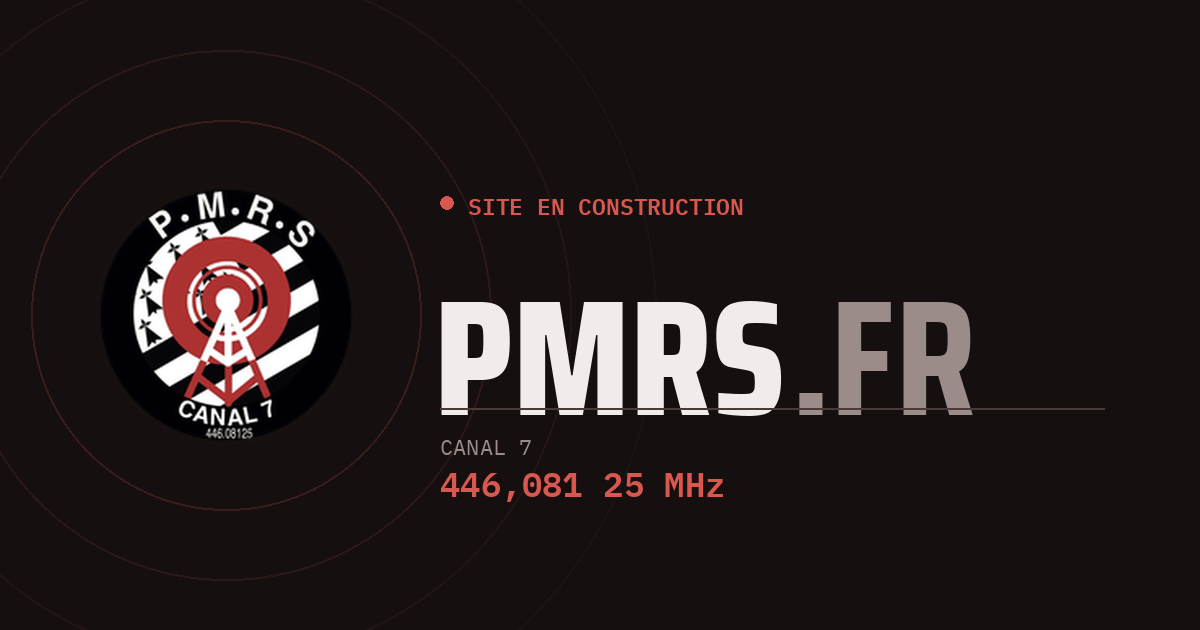
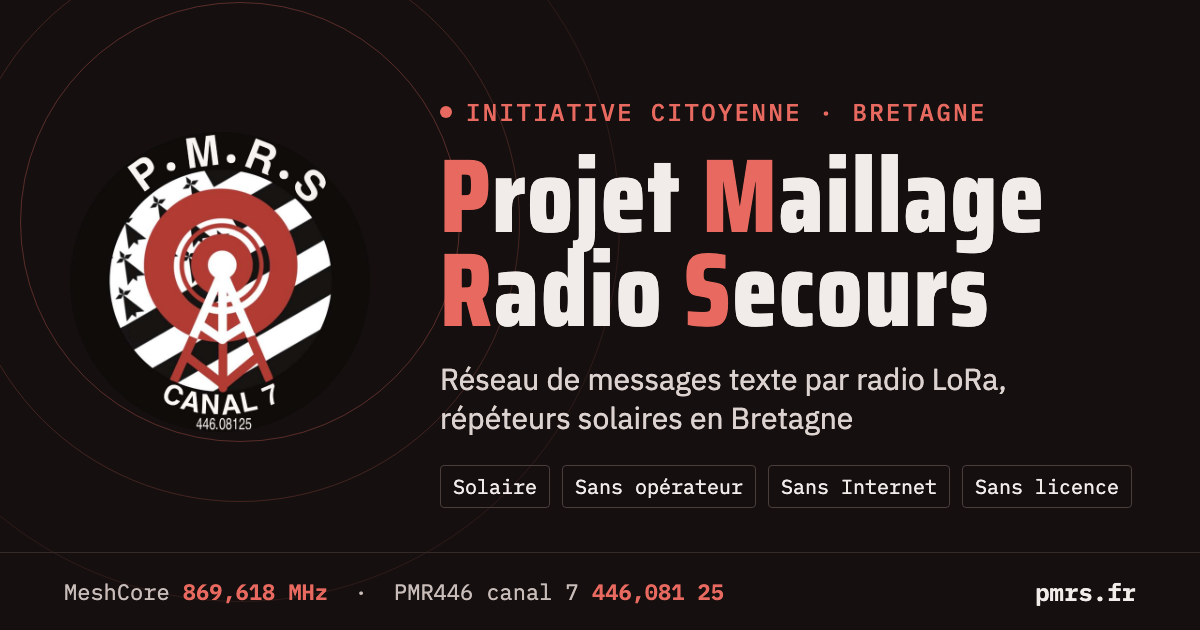
Updates OGs

diff --git a/procedure.html b/procedure.html
@@ -4,7 +4,7 @@
   <meta charset="utf-8">
   <meta name="viewport" content="width=device-width, initial-scale=1, viewport-fit=cover">
   <title>Procédure de crise — PMRS</title>
-  <meta name="description" content="Procédure d'usage en crise du réseau MeshCore PMRS d'Ille-et-Vilaine : principes d'emploi, plan de canaux, parc de terminaux, préparation à froid, conduite en crise et gabarits de messages.">
+  <meta name="description" content="Procédure d'usage en crise du réseau MeshCore PMRS en Bretagne : principes d'emploi, plan de canaux, parc de terminaux, préparation à froid, conduite en crise et gabarits de messages.">
   <link rel="canonical" href="https://pmrs.fr/procedure.html">
   <meta name="theme-color" content="#EFEBEA" media="(prefers-color-scheme: light)">
   <meta name="theme-color" content="#15100F" media="(prefers-color-scheme: dark)">
@@ -15,9 +15,19 @@
   <meta property="og:type" content="article">
   <meta property="og:site_name" content="PMRS">
   <meta property="og:locale" content="fr_FR">
+  <meta property="og:url" content="https://pmrs.fr/procedure.html">
   <meta property="og:title" content="Procédure d'usage en crise — PMRS">
-  <meta property="og:description" content="Comment utiliser le réseau MeshCore PMRS quand les réseaux opérateurs sont indisponibles.">
-  <meta property="og:image" content="https://pmrs.fr/og-image.png">
+  <meta property="og:description" content="Utilisation du réseau MeshCore PMRS en Bretagne lorsque les réseaux opérateurs sont indisponibles : plan de canaux, préparation des terminaux, conduite en crise, gabarits de messages.">
+  <meta property="og:image" content="https://pmrs.fr/og-procedure.png">
+  <meta property="og:image:type" content="image/png">
+  <meta property="og:image:width" content="1200">
+  <meta property="og:image:height" content="630">
+  <meta property="og:image:alt" content="Procédure d'usage en crise PMRS : les cinq états Veille, Pré-alerte, Activation, Conduite, Levée">
+  <meta name="twitter:card" content="summary_large_image">
+  <meta name="twitter:title" content="Procédure d'usage en crise — PMRS">
+  <meta name="twitter:description" content="Utilisation du réseau MeshCore PMRS en Bretagne lorsque les réseaux opérateurs sont indisponibles : plan de canaux, préparation des terminaux, conduite en crise, gabarits de messages.">
+  <meta name="twitter:image" content="https://pmrs.fr/og-procedure.png">
+  <meta name="twitter:image:alt" content="Procédure d'usage en crise PMRS : les cinq états Veille, Pré-alerte, Activation, Conduite, Levée">
 
   <script>try{var t=localStorage.getItem('pmrs-theme');if(t==='light'||t==='dark'){document.documentElement.setAttribute('data-theme',t)}}catch(e){}</script>
   <link rel="preconnect" href="https://fonts.googleapis.com">
@@ -72,12 +82,12 @@
     <header class="doc-head">
       <p class="eyebrow"><span class="dot"></span>Version de travail</p>
       <h1>Procédure d'usage en crise</h1>
-      <p class="lede">Comment utiliser le réseau MeshCore d'Ille-et-Vilaine lorsque les réseaux opérateurs sont indisponibles : plan de canaux, équipement des porteurs et discipline de trafic.</p>
+      <p class="lede">Comment utiliser le réseau MeshCore en Bretagne lorsque les réseaux opérateurs sont indisponibles : plan de canaux, équipement des porteurs et discipline de trafic.</p>
       <div class="meta">
         <span>LoRa 869,618 MHz</span>
-        <span>Ille-et-Vilaine (35)</span>
-        <span>18 octobre 2026</span>
-        <span>Y. Ferez, responsable de déploiement 35</span>
+        <span>Bretagne : 22, 29, 35, 56, 44</span>
+        <span>20 octobre 2026</span>
+        <span>Collectif PMRS</span>
       </div>
       <div class="btns">
         <button class="btn ghost" type="button" onclick="window.print()">Imprimer</button>
@@ -154,6 +164,7 @@
     <section class="chap" id="canaux">
       <h2><span class="no">03</span>Plan de canaux préétabli</h2>
       <p>Les canaux se créent <strong>à froid, jamais pendant la crise</strong> : un canal privé suppose la distribution préalable d'un secret de 32 octets à chaque porteur.</p>
+      <p>La conduite opérationnelle se fait <strong>par département</strong> : chaque canal opérations reste limité à sa région départementale, ce qui évite de saturer la bande sur toute la Bretagne. Les responsables départementaux se coordonnent sur un canal régional dédié.</p>
       <div class="grid g3">
         <div class="panel"><p class="panel-label">Public</p><p class="muted small">Présent sur tous les terminaux.</p></div>
         <div class="panel"><p class="panel-label">Hashtag</p><p class="muted small">Clé dérivée du nom : quiconque connaît le nom y entre. <strong>Pas confidentiel.</strong></p></div>
@@ -164,11 +175,12 @@
           <thead><tr><th>Canal</th><th>Type</th><th>Région</th><th>Usage</th><th>Porteurs</th></tr></thead>
           <tbody>
             <tr><th class="mono">Public</th><td>public</td><td class="mono">fr</td><td>Veille générale, prise de contact</td><td>Tous</td></tr>
-            <tr><th class="mono">#ille-et-vilaine</th><td>hashtag</td><td class="mono">fr-35</td><td>Situation départementale, information non sensible</td><td>Porteurs du 35</td></tr>
-            <tr><th class="mono">#rennes-metropole</th><td>hashtag</td><td class="mono">fr-35</td><td>Situation sur la métropole</td><td>Porteurs du secteur</td></tr>
-            <tr><th class="mono">pmrs-35-operations</th><td>privé</td><td class="mono">fr-35</td><td>Conduite opérationnelle</td><td>Porteurs engagés</td></tr>
-            <tr><th class="mono">pmrs-35-technique</th><td>privé</td><td class="mono">fr-35</td><td>État des répéteurs, pannes, interventions</td><td>Équipe technique</td></tr>
-            <tr><th class="mono">#test</th><td>hashtag</td><td class="mono">fr-35</td><td>Essais et exercices, hors activation</td><td>Tous</td></tr>
+            <tr><th class="mono">#bretagne</th><td>hashtag</td><td class="mono">fr-bre</td><td>Situation régionale, information non sensible</td><td>Tous les porteurs bretons</td></tr>
+            <tr><th class="mono">#finistere<br>#cotes-darmor<br>#morbihan<br>#ille-et-vilaine<br>#loire-atlantique</th><td>hashtag</td><td class="mono">fr-29<br>fr-22<br>fr-56<br>fr-35<br>fr-44</td><td>Situation départementale, information non sensible</td><td>Porteurs du département</td></tr>
+            <tr><th class="mono">pmrs-29-operations<br><span class="muted">… un par département</span></th><td>privé</td><td class="mono">fr-29…</td><td>Conduite opérationnelle dans le département</td><td>Porteurs engagés du département</td></tr>
+            <tr><th class="mono">pmrs-bzh-coordination</th><td>privé</td><td class="mono">fr-bre</td><td>Coordination quand un événement touche plusieurs départements</td><td>Responsables départementaux</td></tr>
+            <tr><th class="mono">pmrs-bzh-technique</th><td>privé</td><td class="mono">fr-bre</td><td>État des répéteurs, pannes, interventions</td><td>Équipe technique</td></tr>
+            <tr><th class="mono">#test</th><td>hashtag</td><td class="mono">fr-bre</td><td>Essais et exercices, hors activation</td><td>Tous</td></tr>
           </tbody>
         </table>
       </div>
@@ -181,12 +193,12 @@
       <p>La communauté française a fixé des règles qu'il faut suivre pour rester interopérable.</p>
       <dl class="kv">
         <div><dt>Hashtags</dt><dd>Minuscules non accentuées, chiffres et tirets uniquement. Pas d'espace, pas de caractère spécial.</dd></div>
-        <div><dt>Terminaux</dt><dd>Département, 4 à 6 lettres de commune, puis texte libre — <code class="mono">35CESS Yvan</code>. Rester sous 22 caractères : au-delà, le nom Bluetooth des compagnons pose problème.</dd></div>
-        <div><dt>Régions</dt><dd><code class="mono">eu</code>, <code class="mono">fr</code>, <code class="mono">fr-bre</code> et <code class="mono">fr-35</code> sur les répéteurs, avec <code class="mono">fr</code> par défaut. La région limite la zone de retransmission d'un canal et évite d'inonder le réseau national avec du trafic local.</dd></div>
+        <div><dt>Terminaux</dt><dd>Numéro de département, 4 à 6 lettres de commune, puis texte libre — <code class="mono">29QUIM Mairie</code>. Rester sous 22 caractères : au-delà, le nom Bluetooth des compagnons pose problème.</dd></div>
+        <div><dt>Régions</dt><dd><code class="mono">eu</code>, <code class="mono">fr</code>, <code class="mono">fr-bre</code> et la région du département (<code class="mono">fr-22</code>, <code class="mono">fr-29</code>, <code class="mono">fr-35</code>, <code class="mono">fr-56</code>, <code class="mono">fr-44</code>) sur les répéteurs, avec <code class="mono">fr</code> par défaut. La région limite la zone de retransmission d'un canal et évite d'inonder le réseau national avec du trafic local.</dd></div>
       </dl>
       <div class="callout warn">
         <b>À trancher</b>
-        <p>Les noms de canaux privés ci-dessus sont une proposition, à valider avec les partenaires — en particulier si un canal doit être partagé avec l'ADRASEC 35 ou une réserve communale, qui ont leurs propres conventions.</p>
+        <p>Les noms de canaux ci-dessus sont une proposition. À vérifier avec la communauté bretonne (canaux hashtag déjà en usage, rattachement de la Loire-Atlantique à <code class="mono">fr-bre</code>) et à valider avec les partenaires, en particulier si un canal doit être partagé avec une ADRASEC ou une réserve communale, qui ont leurs propres conventions.</p>
       </div>
     </section>
 
@@ -225,8 +237,8 @@
       <ul class="check" id="checklist">
         <li><label><input type="checkbox"><span>Firmware MeshCore à jour, rôle <strong>Companion</strong> (jamais Repeater sur un terminal mobile)</span></label></li>
         <li><label><input type="checkbox"><span>Profil radio France : 869,618 MHz, BW 62,5 kHz, SF8, CR8, région par défaut <code class="mono">fr</code></span></label></li>
-        <li><label><input type="checkbox"><span>Nom du terminal à la convention : <code class="mono">35XXXX Prénom</code>, moins de 22 caractères</span></label></li>
-        <li><label><input type="checkbox"><span>Canaux Public, #ille-et-vilaine et #test ajoutés</span></label></li>
+        <li><label><input type="checkbox"><span>Nom du terminal à la convention : <code class="mono">DDXXXX Nom</code> (DD : numéro de département), moins de 22 caractères</span></label></li>
+        <li><label><input type="checkbox"><span>Canaux Public, #bretagne, hashtag de son département et #test ajoutés</span></label></li>
         <li><label><input type="checkbox"><span>Canaux privés chargés par QR code, en main propre, selon le rôle du porteur</span></label></li>
         <li><label><input type="checkbox"><span>Contacts des correspondants habituels échangés et testés en message direct</span></label></li>
         <li><label><input type="checkbox"><span>Partage de position automatique désactivé</span></label></li>
@@ -247,7 +259,7 @@
           <tbody>
             <tr><th>Mensuelle</th><td>Appel de tous les porteurs sur #test : chacun répond, les absents sont relancés</td><td>Animateur réseau</td></tr>
             <tr><th>Mensuelle</th><td>Relève de l'état des répéteurs : batterie, dernière annonce reçue</td><td>Équipe technique</td></tr>
-            <tr><th>Trimestrielle</th><td>Exercice : un message traverse le département de bout en bout, délai mesuré</td><td>Animateur réseau</td></tr>
+            <tr><th>Trimestrielle</th><td>Exercice : un message traverse la région de bout en bout (par exemple de Brest à Rennes), délai mesuré</td><td>Animateur réseau</td></tr>
             <tr><th>Semestrielle</th><td>Vérification des terminaux dormants : charge, firmware, canaux valides</td><td>Porteur</td></tr>
             <tr><th>Annuelle</th><td>Revue du plan de canaux et du registre des porteurs</td><td>Responsable départemental</td></tr>
           </tbody>
@@ -259,21 +271,21 @@
     <!-- 6 -->
     <section class="chap" id="conduite">
       <h2><span class="no">06</span>Conduite en crise</h2>
-      <p>Le réseau passe par cinq états. Le passage d'un état au suivant est prononcé par le responsable départemental, ou à défaut par le premier porteur qui constate la situation.</p>
+      <p>Le réseau passe par cinq états. Le passage d'un état au suivant est prononcé, pour son département, par le responsable départemental, ou à défaut par le premier porteur qui constate la situation. Quand un événement touche plusieurs départements, les responsables départementaux se coordonnent sur <code class="mono">pmrs-bzh-coordination</code>.</p>
       <ol class="states">
         <li class="s-veille"><b>Veille</b><span class="trg">Permanent</span><span class="act">Terminal chargé et joignable ; aucune obligation d'écoute</span><span class="chn">Public</span></li>
-        <li class="s-pre"><b>Pré-alerte</b><span class="trg">Vigilance orange ou rouge</span><span class="act">Charger le terminal, l'emporter, confirmer sa disponibilité en direct</span><span class="chn">#ille-et-vilaine</span></li>
-        <li class="s-act"><b>Activation</b><span class="trg">Coupure constatée ou demande partenaire</span><span class="act">Allumer, annoncer position et état en un message, puis écouter</span><span class="chn">pmrs-35-operations</span></li>
-        <li class="s-cond"><b>Conduite</b><span class="trg">Pendant l'événement</span><span class="act">Point de situation à cadence fixée ; demandes en message direct</span><span class="chn">pmrs-35-operations</span></li>
-        <li class="s-levee"><b>Levée</b><span class="trg">Réseaux opérateurs rétablis</span><span class="act">Message de fin, recharge, compte rendu sous 48 h</span><span class="chn">#ille-et-vilaine</span></li>
+        <li class="s-pre"><b>Pré-alerte</b><span class="trg">Vigilance orange ou rouge</span><span class="act">Charger le terminal, l'emporter, confirmer sa disponibilité en direct</span><span class="chn">#bretagne, hashtag départemental</span></li>
+        <li class="s-act"><b>Activation</b><span class="trg">Coupure constatée ou demande partenaire</span><span class="act">Allumer, annoncer position et état en un message, puis écouter</span><span class="chn">pmrs-XX-operations</span></li>
+        <li class="s-cond"><b>Conduite</b><span class="trg">Pendant l'événement</span><span class="act">Point de situation à cadence fixée ; demandes en message direct</span><span class="chn">pmrs-XX-operations</span></li>
+        <li class="s-levee"><b>Levée</b><span class="trg">Réseaux opérateurs rétablis</span><span class="act">Message de fin, recharge, compte rendu sous 48 h</span><span class="chn">hashtag départemental</span></li>
       </ol>
 
       <div class="grid g2">
         <div class="panel">
           <p class="panel-label">À l'activation</p>
           <ol class="prio plain">
-            <li><strong>Annoncer.</strong> Un message sur le canal opérations : indicatif, commune, état du porteur, moyen disponible. Un seul message.</li>
-            <li><strong>Établir le contact nominatif.</strong> Un message direct vers le responsable départemental, pour obtenir l'accusé et fixer la route.</li>
+            <li><strong>Annoncer.</strong> Un message sur le canal opérations de son département : indicatif, commune, état du porteur, moyen disponible. Un seul message.</li>
+            <li><strong>Établir le contact nominatif.</strong> Un message direct vers le responsable départemental de son secteur, pour obtenir l'accusé et fixer la route.</li>
             <li><strong>Se taire.</strong> Pas de trafic de confirmation sur les canaux. L'écoute est la posture par défaut.</li>
           </ol>
         </div>
@@ -297,7 +309,7 @@
 
       <div class="callout">
         <b>À trancher avec les partenaires</b>
-        <p>Qui prononce l'activation, et selon quel seuil ? Tant que ce point n'est pas arrêté avec le SIDPC, le SDIS ou la commune concernée, <strong>le réseau reste un moyen interne au collectif</strong> et ne peut pas être annoncé comme un appui à la chaîne de secours.</p>
+        <p>Qui prononce l'activation, et selon quel seuil ? Tant que ce point n'est pas arrêté, département par département, avec le SIDPC, le SDIS ou la commune concernée, <strong>le réseau reste un moyen interne au collectif</strong> et ne peut pas être annoncé comme un appui à la chaîne de secours.</p>
       </div>
     </section>
 
@@ -306,13 +318,13 @@
       <h2><span class="no">07</span>Gabarits de messages</h2>
       <p>Un format fixe se lit vite sur un écran de 2,4 pouces et se saisit sans réfléchir. Champs séparés par des barres verticales, sans accent, <strong>mot-clé de tête en majuscules</strong>.</p>
       <ul class="tpl">
-        <li><span class="t">Prise de poste</span><code><span class="kw">DISPO</span>|commune|moyen</code><code class="ex">DISPO|Cesson-Sevigne|vehicule</code><button class="copy" type="button" data-copy="DISPO|commune|moyen">Copier</button></li>
-        <li><span class="t">Point de situation</span><code><span class="kw">SITU</span>|commune|fait|evolution</code><code class="ex">SITU|Acigne|routes coupees nord|stable</code><button class="copy" type="button" data-copy="SITU|commune|fait|evolution">Copier</button></li>
-        <li><span class="t">Demande</span><code><span class="kw">DEM</span>|quoi|ou|pour quand</code><code class="ex">DEM|groupe electrogene|mairie Betton|avant 18h</code><button class="copy" type="button" data-copy="DEM|quoi|ou|pour quand">Copier</button></li>
-        <li><span class="t">Information urgente</span><code><span class="kw">URG</span>|quoi|ou</code><code class="ex">URG|personne isolee|12 rue des Ecoles Thorigne</code><button class="copy" type="button" data-copy="URG|quoi|ou">Copier</button></li>
-        <li><span class="t">Accusé avec suite</span><code><span class="kw">RECU</span>|reference|suite donnee</code><code class="ex">RECU|DEM Betton|transmis mairie</code><button class="copy" type="button" data-copy="RECU|reference|suite donnee">Copier</button></li>
-        <li><span class="t">État réseau</span><code><span class="kw">RES</span>|repeteur|etat</code><code class="ex">RES|35CESS-toit|muet depuis 14h</code><button class="copy" type="button" data-copy="RES|repeteur|etat">Copier</button></li>
-        <li><span class="t">Fin</span><code><span class="kw">FIN</span>|commune|retour normal</code><code class="ex">FIN|Acigne|reseau operateur retabli</code><button class="copy" type="button" data-copy="FIN|commune|retour normal">Copier</button></li>
+        <li><span class="t">Prise de poste</span><code><span class="kw">DISPO</span>|commune|moyen</code><code class="ex">DISPO|Quimper|vehicule</code><button class="copy" type="button" data-copy="DISPO|commune|moyen">Copier</button></li>
+        <li><span class="t">Point de situation</span><code><span class="kw">SITU</span>|commune|fait|evolution</code><code class="ex">SITU|Carhaix|routes coupees nord|stable</code><button class="copy" type="button" data-copy="SITU|commune|fait|evolution">Copier</button></li>
+        <li><span class="t">Demande</span><code><span class="kw">DEM</span>|quoi|ou|pour quand</code><code class="ex">DEM|groupe electrogene|mairie Pontivy|avant 18h</code><button class="copy" type="button" data-copy="DEM|quoi|ou|pour quand">Copier</button></li>
+        <li><span class="t">Information urgente</span><code><span class="kw">URG</span>|quoi|ou</code><code class="ex">URG|personne isolee|12 rue des Ecoles Lannion</code><button class="copy" type="button" data-copy="URG|quoi|ou">Copier</button></li>
+        <li><span class="t">Accusé avec suite</span><code><span class="kw">RECU</span>|reference|suite donnee</code><code class="ex">RECU|DEM Pontivy|transmis mairie</code><button class="copy" type="button" data-copy="RECU|reference|suite donnee">Copier</button></li>
+        <li><span class="t">État réseau</span><code><span class="kw">RES</span>|repeteur|etat</code><code class="ex">RES|29QUIM-toit|muet depuis 14h</code><button class="copy" type="button" data-copy="RES|repeteur|etat">Copier</button></li>
+        <li><span class="t">Fin</span><code><span class="kw">FIN</span>|commune|retour normal</code><code class="ex">FIN|Carhaix|reseau operateur retabli</code><button class="copy" type="button" data-copy="FIN|commune|retour normal">Copier</button></li>
       </ul>
 
       <div class="grid g2">
@@ -353,7 +365,7 @@
           <p class="panel-label">À arrêter avec les partenaires</p>
           <ul>
             <li>Qui prononce l'activation, et sur quel seuil.</li>
-            <li>Articulation avec l'ADRASEC 35, qui dispose d'un agrément de sécurité civile et est activée par le préfet via le SIDPC — le PMRS n'a pas ce statut.</li>
+            <li>Articulation avec les ADRASEC départementales, qui disposent d'un agrément de sécurité civile et sont activées par le préfet via le SIDPC — le PMRS n'a pas ce statut.</li>
             <li>Qui détient un terminal côté institutionnel, et qui en assure la charge.</li>
             <li>Ce que l'institution accepte de voir transiter sur un réseau bénévole non conventionné.</li>
           </ul>
@@ -390,7 +402,7 @@
       <a href="index.html#ressources">Ressources</a>
       <a href="mailto:contact@pmrs.fr">contact@pmrs.fr</a>
     </div>
-    <p>Version de travail du 18 octobre 2026. Initiative citoyenne sans but lucratif, non intégrée à la chaîne ORSEC.</p>
+    <p>Version de travail du 20 octobre 2026. Initiative citoyenne sans but lucratif, non intégrée à la chaîne ORSEC.</p>
   </div>
 </footer>
 

diff --git a/index.html b/index.html
@@ -20,16 +20,17 @@
   <meta property="og:locale" content="fr_FR">
   <meta property="og:url" content="https://pmrs.fr/">
   <meta property="og:title" content="PMRS — Projet Maillage Radio Secours">
-  <meta property="og:description" content="Un réseau radio de messages texte qui tient quand le mobile tombe. Répéteurs solaires, sans opérateur, sans Internet, sans licence.">
+  <meta property="og:description" content="Réseau citoyen de messages texte par radio LoRa MeshCore (869,618 MHz), relayés par des répéteurs solaires en Bretagne. Sans opérateur, sans Internet, sans licence.">
   <meta property="og:image" content="https://pmrs.fr/og-image.png">
   <meta property="og:image:type" content="image/png">
   <meta property="og:image:width" content="1200">
   <meta property="og:image:height" content="630">
-  <meta property="og:image:alt" content="Écusson PMRS, canal de veille 446,081 25 MHz et nœud MeshCore 869,618 MHz">
+  <meta property="og:image:alt" content="Écusson PMRS et titre Projet Maillage Radio Secours ; fréquences MeshCore 869,618 MHz et PMR446 canal 7 446,081 25 MHz">
   <meta name="twitter:card" content="summary_large_image">
   <meta name="twitter:title" content="PMRS — Projet Maillage Radio Secours">
-  <meta name="twitter:description" content="Un réseau radio de messages texte qui tient quand le mobile tombe. Répéteurs solaires, sans opérateur, sans Internet, sans licence.">
+  <meta name="twitter:description" content="Réseau citoyen de messages texte par radio LoRa MeshCore (869,618 MHz), relayés par des répéteurs solaires en Bretagne. Sans opérateur, sans Internet, sans licence.">
   <meta name="twitter:image" content="https://pmrs.fr/og-image.png">
+  <meta name="twitter:image:alt" content="Écusson PMRS et titre Projet Maillage Radio Secours ; fréquences MeshCore 869,618 MHz et PMR446 canal 7 446,081 25 MHz">
 
   <script>try{var t=localStorage.getItem('pmrs-theme');if(t==='light'||t==='dark'){document.documentElement.setAttribute('data-theme',t)}}catch(e){}</script>
   <link rel="preconnect" href="https://fonts.googleapis.com">
@@ -74,10 +75,10 @@
     <div class="hero-text">
       <p class="eyebrow"><span class="dot"></span>Initiative citoyenne · Bretagne</p>
       <h1><span class="caps">P</span>rojet <span class="caps">M</span>aillage <span class="caps">R</span>adio <span class="caps">S</span>ecours</h1>
-      <p class="lede">Un réseau radio de messages texte qui tient quand le mobile tombe. <span>Des répéteurs solaires posés sur les points hauts relaient les messages de proche en proche : sans opérateur, sans Internet, sans licence, et en place avant la crise.</span></p>
+      <p class="lede">Réseau de messages texte par radio LoRa, relayés par des répéteurs solaires installés sur des points hauts. <span>Il fonctionne sans opérateur, sans Internet et sans licence, et il est installé avant les crises.</span></p>
       <div class="btns">
         <a class="btn" href="#accueil">Accueillir un répéteur</a>
-        <a class="btn ghost" href="#principe">Comprendre en 2 minutes</a>
+        <a class="btn ghost" href="#principe">Le principe</a>
         <a class="btn ghost" href="procedure.html">Procédure de crise</a>
       </div>
     </div>
@@ -107,7 +108,7 @@
     <a class="qcard" href="#accueil">
       <span class="num">02</span>
       <h3>Accueillir un répéteur</h3>
-      <p>Un toit, un mât, un point haut ? Le module est autonome, gratuit et démontable sur simple demande.</p>
+      <p>Conditions d'accueil : module autonome, sans coût pour l'hôte, démontable sur simple demande.</p>
       <span class="go">Les conditions →</span>
     </a>
     <a class="qcard" href="procedure.html">
@@ -130,8 +131,8 @@
   <div class="wrap grid split" style="gap:clamp(1.5rem,5vw,3rem)">
     <div class="stack-lg">
       <div class="section-head" style="margin:0">
-        <p class="eyebrow">Notre démarche</p>
-        <h2>Un filet de sécurité, tendu à froid</h2>
+        <p class="eyebrow">Le collectif</p>
+        <h2>Démarche et principes</h2>
       </div>
       <div class="letter">
         <p>Au matin du 2 novembre 2023, après la tempête Ciaran, plus de la moitié des antennes mobiles du Finistère étaient muettes. Des communes entières n'avaient plus de lien, ni entre habitants, ni avec la préfecture, ni avec les secours.</p>
@@ -141,11 +142,11 @@
       </div>
     </div>
     <div class="stack">
-      <div class="principle"><span class="k">A</span><div><h3>Complément, jamais substitut</h3><p>Les appels d'urgence passent par le 18, le 15 et le 112 tant qu'un réseau les porte. Le PMRS sert à faire remonter l'information jusqu'à un point où ces moyens existent.</p></div></div>
-      <div class="principle"><span class="k">B</span><div><h3>Tout se prépare à froid</h3><p>On ne rejoint pas le réseau pendant la crise. Terminaux, canaux et contacts se configurent et se testent avant.</p></div></div>
-      <div class="principle"><span class="k">C</span><div><h3>Sobriété sur l'air</h3><p>La bande est partagée et limitée à 10 % de temps d'émission. Messages courts, une information par message, pas de bavardage.</p></div></div>
+      <div class="principle"><span class="k">A</span><div><h3>Complément des moyens officiels</h3><p>Les appels d'urgence passent par le 18, le 15 et le 112 tant qu'un réseau les porte. Le PMRS sert à faire remonter l'information jusqu'à un point où ces moyens existent.</p></div></div>
+      <div class="principle"><span class="k">B</span><div><h3>Préparation avant la crise</h3><p>On ne rejoint pas le réseau pendant la crise. Terminaux, canaux et contacts se configurent et se testent avant.</p></div></div>
+      <div class="principle"><span class="k">C</span><div><h3>Temps d'émission limité</h3><p>La bande est partagée et limitée à 10 % de temps d'émission. Messages courts, une information par message.</p></div></div>
       <div class="principle"><span class="k">D</span><div><h3>Ouvert et interopérable</h3><p>Logiciel libre, profil radio France, règles de nommage communes : le maillage breton fait partie du réseau national.</p></div></div>
-      <div class="principle"><span class="k">E</span><div><h3>Réversible, sans coût pour l'hôte</h3><p>Un répéteur ne se raccorde à rien et se dépose sur simple demande. Matériel et pose sont à la charge du PMRS.</p></div></div>
+      <div class="principle"><span class="k">E</span><div><h3>Réversible et gratuit pour l'hôte</h3><p>Un répéteur ne se raccorde à rien et se dépose sur simple demande. Matériel et pose sont à la charge du PMRS.</p></div></div>
     </div>
   </div>
 </section>
@@ -155,8 +156,8 @@
   <div class="wrap">
     <div class="section-head">
       <p class="eyebrow">01 — La problématique</p>
-      <h2>Ciaran : quand les réseaux tombent ensemble</h2>
-      <p class="lede">Une tempête coupe l'électricité, l'électricité fait tomber les antennes, et les antennes emportent la voix, les SMS, les données… et les appels d'urgence.</p>
+      <h2>Impact de la tempête Ciaran sur les télécommunications</h2>
+      <p class="lede">En novembre 2023, la coupure électrique a mis à l'arrêt une grande partie des sites mobiles bretons : voix, SMS, données et appels d'urgence compris.</p>
     </div>
 
     <div class="stack-lg">
@@ -243,7 +244,7 @@
   <div class="wrap">
     <div class="section-head">
       <p class="eyebrow">02 — Le principe</p>
-      <h2>Un message saute de répéteur en répéteur</h2>
+      <h2>Principe du réseau maillé</h2>
       <p class="lede">Chaque message est relayé jusqu'à son destinataire par des répéteurs fixes. Les terminaux, eux, ne relaient pas : ils émettent et reçoivent.</p>
     </div>
 
@@ -267,7 +268,7 @@
         <div style="display:flex; flex-wrap:wrap; gap:1rem; justify-content:space-between; align-items:center">
           <div>
             <p class="panel-label">Résilience</p>
-            <h3 style="font-size:1.5rem">Que se passe-t-il si un répéteur tombe ?</h3>
+            <h3 style="font-size:1.5rem">Perte d'un répéteur</h3>
           </div>
           <div class="steps" role="group" aria-label="Étapes">
             <button type="button" aria-pressed="true"><b>1</b>Nominal</button>
@@ -310,8 +311,8 @@
   <div class="wrap">
     <div class="section-head">
       <p class="eyebrow">03 — Le matériel</p>
-      <h2>Un boîtier, un panneau, une antenne</h2>
-      <p class="lede">Une mise sous tension, puis plus rien à faire. Le répéteur tourne 24 h/24 toute l'année sur l'énergie du soleil, et se supervise à distance par radio.</p>
+      <h2>Le répéteur et les terminaux</h2>
+      <p class="lede">Mise sous tension unique, fonctionnement 24 h/24 sur énergie solaire, supervision à distance par radio.</p>
     </div>
 
     <div class="stack-lg">
@@ -367,7 +368,7 @@
       </div>
 
       <div class="stack">
-        <h3>Sur l'air</h3>
+        <h3>Fréquences</h3>
         <div class="grid g2">
           <section class="panel" aria-label="Maillage de données LoRa MeshCore">
             <p class="panel-label">Données — LoRa MeshCore</p>
@@ -415,7 +416,7 @@
   <div class="wrap">
     <div class="section-head">
       <p class="eyebrow">04 — État du réseau</p>
-      <h2>Où en est le maillage</h2>
+      <h2>État du réseau et calendrier</h2>
       <p class="lede">Le maillage n'a d'intérêt que s'il est continu : chaque site accueilli conditionne la couverture des communes voisines.</p>
     </div>
 
@@ -472,8 +473,8 @@
   <div class="wrap">
     <div class="section-head">
       <p class="eyebrow">05 — Accueillir un répéteur</p>
-      <h2>Un point haut, l'idéal</h2>
-      <p class="lede">Château d'eau, toit de mairie, caserne, pylône, grange sur une butte : chaque site accueilli étend la couverture et crée une route de secours pour les voisins.</p>
+      <h2>Accueillir un répéteur</h2>
+      <p class="lede">Sites recherchés : château d'eau, toit de mairie, caserne, pylône, bâtiment en hauteur. Chaque site accueilli étend la couverture et crée une route de secours pour les sites voisins.</p>
     </div>
 
     <div class="stack-lg">
@@ -515,8 +516,8 @@
   <div class="wrap">
     <div class="section-head">
       <p class="eyebrow">06 — En cas de crise</p>
-      <h2>Une règle d'or, cinq états</h2>
-      <p class="lede">La procédure d'usage fixe le plan de canaux, l'équipement des porteurs et la discipline de trafic. L'essentiel tient en deux idées.</p>
+      <h2>Usage en cas de crise</h2>
+      <p class="lede">La procédure d'usage fixe le plan de canaux, l'équipement des porteurs et la discipline de trafic. Résumé ci-dessous.</p>
     </div>
 
     <div class="stack-lg">
@@ -537,10 +538,10 @@
 
       <ol class="states">
         <li class="s-veille"><b>Veille</b><span class="trg">Permanent</span><span class="act">Terminal chargé et joignable</span><span class="chn">Public</span></li>
-        <li class="s-pre"><b>Pré-alerte</b><span class="trg">Vigilance orange ou rouge</span><span class="act">Charger, emporter, confirmer sa disponibilité</span><span class="chn">#ille-et-vilaine</span></li>
+        <li class="s-pre"><b>Pré-alerte</b><span class="trg">Vigilance orange ou rouge</span><span class="act">Charger, emporter, confirmer sa disponibilité</span><span class="chn">#bretagne, hashtag départemental</span></li>
         <li class="s-act"><b>Activation</b><span class="trg">Coupure constatée</span><span class="act">Annoncer en un message, puis écouter</span><span class="chn">canal opérations</span></li>
         <li class="s-cond"><b>Conduite</b><span class="trg">Pendant l'événement</span><span class="act">Points de situation à cadence fixe</span><span class="chn">canal opérations</span></li>
-        <li class="s-levee"><b>Levée</b><span class="trg">Réseaux rétablis</span><span class="act">Message de fin, compte rendu sous 48 h</span><span class="chn">#ille-et-vilaine</span></li>
+        <li class="s-levee"><b>Levée</b><span class="trg">Réseaux rétablis</span><span class="act">Message de fin, compte rendu sous 48 h</span><span class="chn">hashtag départemental</span></li>
       </ol>
 
       <div class="callout">
@@ -561,7 +562,7 @@
   <div class="wrap">
     <div class="section-head">
       <p class="eyebrow">07 — Ressources</p>
-      <h2>Les outils de la communauté</h2>
+      <h2>Outils et documentation</h2>
       <p class="lede">Le maillage breton s'appuie sur le travail de nombreux bénévoles : cartes, observateurs, outils d'analyse et documentation. Merci à eux.</p>
     </div>
 

diff --git a/style.css b/style.css
@@ -294,6 +294,8 @@ tbody tr:last-child th,tbody tr:last-child td{border-bottom:0}
 tr.ours th,tr.ours td{background:var(--halo); color:var(--fg)}
 tr.ours th{color:var(--accent); font-weight:600}
 td.mono,th.mono{font-family:var(--data); font-size:.82rem}
+tbody th.mono{white-space:nowrap}
+tbody th.mono .muted{display:block; white-space:normal; font-family:var(--body); font-weight:400}
 
 /* --- schémas ------------------------------------------------------- */
 .diagram svg{display:block; width:100%; height:auto}

diff --git a/README.md b/README.md
@@ -12,11 +12,12 @@ Le site sert à trois choses :
 
 ```
 index.html            Page d'accueil (présentation, principe, matériel, avancement, accueil, crise, ressources)
-procedure.html        Procédure d'usage en crise (Ille-et-Vilaine)
+procedure.html        Procédure d'usage en crise (Bretagne)
 style.css             Feuille de style commune aux deux pages
 site.js               Comportements communs (thème, menu mobile, graphique, schéma de résilience, copier, check-list)
 logo.png              Écusson PMRS
-og-image.png          Image de partage (réseaux sociaux)
+og-image.png          Image de partage de la page d'accueil (1200 × 630)
+og-procedure.png      Image de partage de la procédure (1200 × 630)
 favicon*, icon-*      Icônes
 site.webmanifest      Manifeste web
 _archive/             Ancienne page « site en construction »
@@ -85,11 +86,10 @@ L'identité reprend celle de la page d'origine : papier teinté rouge, écusson 
 - [ ] Vérifier les descriptions des ressources meshcore.serveurperso.in, meshqual, meshcore-analyzer et wiki.meshcore.bzh
 - [ ] Ajouter des photos d'installations et les simulations de couverture (Brocéliande, Glaz Arena)
 - [ ] Préciser la ligne « Assurance » une fois la convention type rédigée
-- [ ] Mettre à jour `og-image.png` si le visuel de partage doit évoluer
 - [ ] Décider si la procédure de crise reste publique tant qu'elle est en version de travail
 
 ## Contact
 
-Yvan Ferez — responsable de déploiement Ille-et-Vilaine et Morbihan · [contact@pmrs.fr](mailto:contact@pmrs.fr)
+PMRS · [contact@pmrs.fr](mailto:contact@pmrs.fr)
 
 Initiative citoyenne, sans but lucratif.
